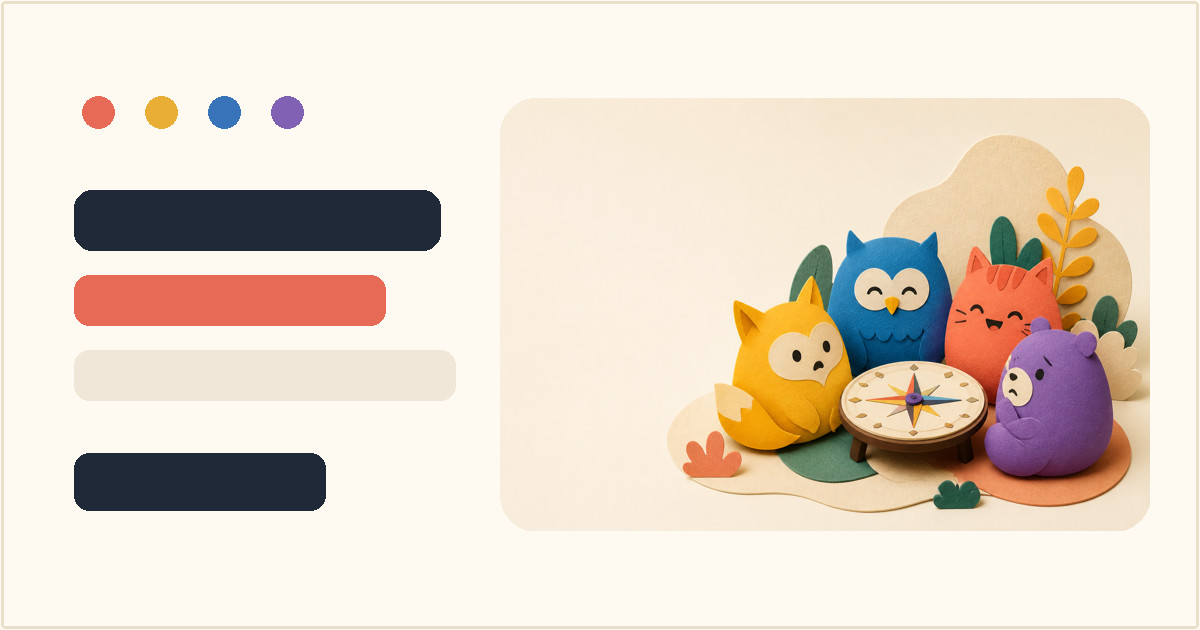
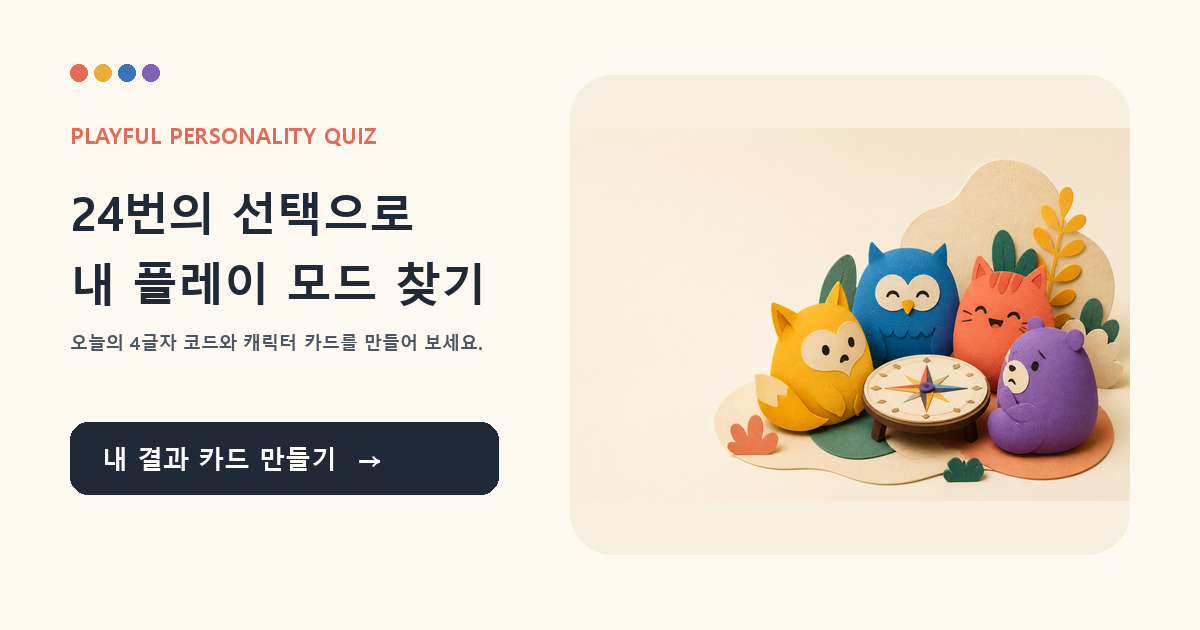
feat: share result cards as images

diff --git a/index.html b/index.html
@@ -24,7 +24,7 @@
 <body><div class="wrap"><header class="top"><div class="logo"><span class="mark" aria-hidden="true">✦</span>선택코드 플레이룸</div><span class="micro">24문항 · 4개 선호 축 · 16가지 오늘의 코드</span></header><main>
 <section id="landing" class="view active" aria-labelledby="hero-title"><div class="hero"><div class="hero-copy"><p class="eyebrow">PLAYFUL PERSONALITY QUIZ</p><h1 id="hero-title">24번의 선택으로<br>내 플레이 모드 찾기</h1><p class="lead">8문항으로 단정하지 않아요. 네 가지 선호 축을 각각 여섯 번씩 살펴보고, 선택의 결을 모아 오늘의 4글자 코드를 만들어요.</p><p class="scope">MBTI의 네 선호 축 구조를 참고한 비공식 놀이 콘텐츠입니다. 공식 검사·심리/의학적 진단·희귀도 순위가 아닙니다.</p><button id="start" class="cta" type="button">24문항 시작하기 →</button></div><div class="art-wrap"><img src="assets/personality-playroom-hero.png" alt="네 가지 동물 마스코트가 나침반 테이블을 둘러싼 종이 콜라주 그림"></div></div><div class="how" aria-label="퀴즈 안내"><div><b>01 · 24문항</b><span>같은 축을 한 번이 아닌 여섯 번 다른 장면에서</span></div><div><b>02 · 선택의 결</b><span>맞고 틀림 없이, 더 자주 끌린 방향을 확인</span></div><div><b>03 · 플레이 카드</b><span>코드·강점·관계 모드·오늘의 미션까지</span></div></div><div class="gallery"><h2>어떤 코드가 나올까?</h2><p>첫 화면에는 네 장만 미리 보여드려요. 전체 16가지는 필요할 때 열어보세요.</p><button id="typeToggle" class="gallery-toggle" type="button" aria-expanded="false">16가지 전체 코드 보기</button><div class="type-grid" id="typeGrid"></div></div></section>
 <section id="quiz" class="view"><div class="quiz-shell"><div class="progress-meta"><span id="counter">질문 1 / 24</span><span id="stage">에너지 방식</span></div><div class="progress" aria-hidden="true"><i id="bar"></i></div><span id="axisChip" class="axis-chip"></span><h2 id="question" class="q-title" aria-live="polite"></h2><div id="answers" class="answers"></div><div class="quiz-actions"><button id="back" class="back" type="button">← 이전 선택</button><span class="helper">처음 끌리는 쪽을 골라보세요</span></div></div></section>
-<section id="result" class="view" aria-labelledby="resultName"><div class="result"><span class="badge">TODAY'S PLAY CARD</span><div id="code" class="code"></div><img id="typeArt" class="type-art" src="assets/types/INTJ.png" alt="결과 캐릭터 일러스트"><h2 id="resultName"></h2><p id="description" class="description"></p><div id="cards" class="cards"></div><div id="axis" class="axis" aria-label="네 가지 선택 축 요약"></div><div class="starter"><b>오늘의 재미 미션</b><span id="mission"></span></div><p class="scope" style="margin:0 auto 17px;text-align:left">같은 축을 6개 장면에서 살폈지만, 이 결과는 고정 성격이나 능력·건강을 판단하지 않는 놀이용 코드입니다. 동점인 축은 가장 마지막 선택을 반영합니다.</p><div class="result-actions"><button id="share" class="secondary" type="button">결과 문구 복사하기</button><button id="restart" class="restart" type="button">처음부터 다시 하기</button></div><p id="toast" class="toast" role="status"></p></div><p class="foot">저장·추적·공유 없이 이 브라우저 안에서만 계산됩니다.</p></section>
+<section id="result" class="view" aria-labelledby="resultName"><div class="result"><span class="badge">TODAY'S PLAY CARD</span><div id="code" class="code"></div><img id="typeArt" class="type-art" src="assets/types/INTJ.png" alt="결과 캐릭터 일러스트"><h2 id="resultName"></h2><p id="description" class="description"></p><div id="cards" class="cards"></div><div id="axis" class="axis" aria-label="네 가지 선택 축 요약"></div><div class="starter"><b>오늘의 재미 미션</b><span id="mission"></span></div><p class="scope" style="margin:0 auto 17px;text-align:left">같은 축을 6개 장면에서 살폈지만, 이 결과는 고정 성격이나 능력·건강을 판단하지 않는 놀이용 코드입니다. 동점인 축은 가장 마지막 선택을 반영합니다.</p><div class="result-actions"><button id="share" class="secondary" type="button">내 결과 이미지 공유하기</button><button id="restart" class="restart" type="button">처음부터 다시 하기</button></div><p id="toast" class="toast" role="status"></p></div><p class="foot">저장·추적·공유 없이 이 브라우저 안에서만 계산됩니다.</p></section>
 </main></div>
 <script>
 (()=>{
@@ -46,8 +46,10 @@ function choose(key){answers[index]=key;if(index<questions.length-1){index++;ren
 function previous(){if(index>0){index--;answers.length=index;render()}}
 function score(){const out={I:0,E:0,S:0,N:0,T:0,F:0,J:0,P:0};answers.forEach(k=>out[k]++);return out}
 function winner(a,b,s,axis){if(s[a]===s[b]){for(let n=questions.length-1;n>=0;n--)if(questions[n].axis===axis)return answers[n]}return s[a]>s[b]?a:b}
-function renderResult(){const s=score();const code=winner('I','E',s,'EI')+winner('S','N',s,'SN')+winner('T','F',s,'TF')+winner('J','P',s,'JP');const t=types[code];$('#code').textContent=code;const art=$('#typeArt');art.src=`assets/types/${code}.png`;art.alt=`${code} ${t[0]} 캐릭터 일러스트`;$('#resultName').textContent=t[0];$('#description').textContent=t[1];$('#cards').replaceChildren(...[['PLAY STYLE',t[2]],['한 줄 플레이',t[3]],['선택 밀도',`${Object.values(info).map(d=>Math.max(s[d.a],s[d.b])+' / 6').join(' · ')}`]].map(([a,b])=>{const x=document.createElement('div');x.className='card';const h=document.createElement('b');h.textContent=a;const p=document.createElement('span');p.textContent=b;x.append(h,p);return x}));const ax=$('#axis');ax.replaceChildren(...Object.entries(info).map(([axis,d])=>{const a=s[d.a],b=s[d.b],w=winner(d.a,d.b,s,axis);const row=document.createElement('div');row.className='axis-row';const l=document.createElement('span');l.textContent=`${w} · ${d[w===d.a?'aLabel':'bLabel']}`;const meter=document.createElement('div');meter.className='meter';meter.style.setProperty('--point',`${(b/(a+b))*100}%`);const dot=document.createElement('i');meter.append(dot);const r=document.createElement('small');r.textContent=`${a}:${b}`;row.append(l,meter,r);return row}));$('#mission').textContent=`${t[2]}: ${t[3]}`;$('#share').onclick=()=>copyResult(code,t[0]);$('#toast').textContent='';show('result')}
-async function copyResult(code,name){const text=`나의 오늘의 선택코드는 ${code} · ${name}! (선택코드 플레이룸 24문항 놀이 결과)`;try{await navigator.clipboard.writeText(text);$('#toast').textContent='결과 문구를 복사했어요. 친구에게 보내볼까요?'}catch(e){$('#toast').textContent='이 브라우저에서는 자동 복사가 어려워요. 코드를 직접 골라 공유해 주세요.'}}
+function renderResult(){const s=score();const code=winner('I','E',s,'EI')+winner('S','N',s,'SN')+winner('T','F',s,'TF')+winner('J','P',s,'JP');const t=types[code];$('#code').textContent=code;const art=$('#typeArt');art.src=`assets/types/${code}.png`;art.alt=`${code} ${t[0]} 캐릭터 일러스트`;$('#resultName').textContent=t[0];$('#description').textContent=t[1];$('#cards').replaceChildren(...[['PLAY STYLE',t[2]],['한 줄 플레이',t[3]],['선택 밀도',`${Object.values(info).map(d=>Math.max(s[d.a],s[d.b])+' / 6').join(' · ')}`]].map(([a,b])=>{const x=document.createElement('div');x.className='card';const h=document.createElement('b');h.textContent=a;const p=document.createElement('span');p.textContent=b;x.append(h,p);return x}));const ax=$('#axis');ax.replaceChildren(...Object.entries(info).map(([axis,d])=>{const a=s[d.a],b=s[d.b],w=winner(d.a,d.b,s,axis);const row=document.createElement('div');row.className='axis-row';const l=document.createElement('span');l.textContent=`${w} · ${d[w===d.a?'aLabel':'bLabel']}`;const meter=document.createElement('div');meter.className='meter';meter.style.setProperty('--point',`${(b/(a+b))*100}%`);const dot=document.createElement('i');meter.append(dot);const r=document.createElement('small');r.textContent=`${a}:${b}`;row.append(l,meter,r);return row}));$('#mission').textContent=`${t[2]}: ${t[3]}`;$('#share').onclick=()=>shareResult(code,t);$('#toast').textContent='';show('result')}
+function roundRect(ctx,x,y,w,h,r){ctx.beginPath();ctx.roundRect(x,y,w,h,r);ctx.fill()}
+function loadImage(src){return new Promise((resolve,reject)=>{const img=new Image();img.onload=()=>resolve(img);img.onerror=reject;img.src=src})}
+async function shareResult(code,t){const toast=$('#toast');toast.textContent='내 결과 카드를 만들고 있어요…';const canvas=document.createElement('canvas');canvas.width=1200;canvas.height=630;const ctx=canvas.getContext('2d');ctx.fillStyle='#fffaf1';ctx.fillRect(0,0,1200,630);const glow=ctx.createRadialGradient(1020,70,15,900,260,680);glow.addColorStop(0,'#f7c55b');glow.addColorStop(.45,'#f9e6bd');glow.addColorStop(1,'#fffaf100');ctx.fillStyle=glow;ctx.fillRect(0,0,1200,630);ctx.fillStyle='#e66a55';roundRect(ctx,70,74,13,13,7);ctx.fillStyle='#e9ae36';roundRect(ctx,92,74,13,13,7);ctx.fillStyle='#3974ba';roundRect(ctx,114,74,13,13,7);ctx.fillStyle='#8061b4';roundRect(ctx,136,74,13,13,7);ctx.fillStyle='#e66a55';ctx.font='800 21px Pretendard, Arial, sans-serif';ctx.fillText('24개의 순간이 만든 오늘의 플레이 모드',70,130);ctx.fillStyle='#1f2937';ctx.font='900 100px Pretendard, Arial, sans-serif';ctx.fillText(code,67,248);ctx.font='900 46px Pretendard, Arial, sans-serif';ctx.fillText(t[0],70,312);ctx.fillStyle='#4b5563';ctx.font='600 25px Pretendard, Arial, sans-serif';const line=t[3].length>25?t[3].slice(0,25)+'…':t[3];ctx.fillText(`“${line}”`,70,370);ctx.fillStyle='#1f2937';roundRect(ctx,70,438,460,86,21);ctx.fillStyle='#fffdfa';ctx.font='800 27px Pretendard, Arial, sans-serif';ctx.fillText(`오늘의 미션 · ${t[2]}`,101,491);ctx.fillStyle='#f7efdf';roundRect(ctx,658,55,470,520,38);try{const art=await loadImage(`assets/types/${code}.png`);const ratio=Math.min(430/art.width,430/art.height);const w=art.width*ratio,h=art.height*ratio;ctx.drawImage(art,678+(430-w)/2,96+(430-h)/2,w,h)}catch(e){ctx.fillStyle='#8061b4';ctx.font='900 120px sans-serif';ctx.fillText('✦',825,340)}ctx.fillStyle='#6b7280';ctx.font='700 18px Pretendard, Arial, sans-serif';ctx.fillText('선택코드 플레이룸 · 비공식 놀이 퀴즈',70,579);const blob=await new Promise(resolve=>canvas.toBlob(resolve,'image/png'));if(!blob){toast.textContent='이미지 생성에 실패했어요. 다시 시도해 주세요.';return}const file=new File([blob],`my-play-card-${code}.png`,{type:'image/png'});const text=`나의 오늘의 선택코드는 ${code} · ${t[0]}! ${t[3]}\n선택코드 플레이룸 24문항 놀이 결과`;try{if(navigator.canShare&&navigator.canShare({files:[file]})){await navigator.share({title:`${code} · ${t[0]}`,text,files:[file]});toast.textContent='내 결과 카드와 문구를 공유했어요.';return}}catch(e){if(e.name==='AbortError'){toast.textContent='공유를 취소했어요.';return}}try{await navigator.clipboard.writeText(text)}catch(e){}const a=document.createElement('a');a.href=URL.createObjectURL(blob);a.download=file.name;a.click();setTimeout(()=>URL.revokeObjectURL(a.href),1000);toast.textContent='공유용 결과 이미지를 내려받고 문구도 복사했어요.'}
 function restart(){index=0;answers=[];show('landing')}
 $('#start').addEventListener('click',()=>{index=0;answers=[];show('quiz');render()});$('#back').addEventListener('click',previous);$('#restart').addEventListener('click',restart);
 const grid=$('#typeGrid'),toggle=$('#typeToggle');let allTypes=false;function renderTypes(){grid.replaceChildren(...Object.entries(types).slice(0,allTypes?16:4).map(([c,v])=>{const x=document.createElement('div');x.className='type';const b=document.createElement('b');b.textContent=c;const s=document.createElement('span');s.textContent=v[0];x.append(b,s);return x}));toggle.textContent=allTypes?'16가지 접기':'16가지 전체 코드 보기';toggle.setAttribute('aria-expanded',String(allTypes))}toggle.addEventListener('click',()=>{allTypes=!allTypes;renderTypes()});renderTypes();

diff --git a/README.md b/README.md
@@ -1,15 +1,16 @@
 # 선택코드 플레이룸
 
-8개의 상황 선택으로 만드는 **오늘의 4글자 선택 코드**. MBTI를 떠올리게 하는 4개 축(E/I, S/N, T/F, J/P)을 사용하지만, 공식 MBTI 검사·심리 진단·의학적 평가가 아닌 **재미를 위한 비공식 심리 퀴즈**입니다.
+24개의 상황 선택으로 만드는 **오늘의 4글자 선택 코드**. MBTI를 떠올리게 하는 4개 축(E/I, S/N, T/F, J/P)을 사용하지만, 공식 MBTI 검사·심리 진단·의학적 평가가 아닌 **재미를 위한 비공식 심리 퀴즈**입니다.
 
 ## Run
 `index.html`을 최신 브라우저로 여세요. 의존성, 로그인, 추적, 서버가 없습니다.
 
 ## Flow
-1. 8개 일상 상황 선택
-2. 에너지·관찰·결정·생활의 4개 축을 로컬 계산
+1. 24개 일상 상황 선택
+2. 4개 축을 각 6개 장면에서 로컬 계산
 3. 16개 중 하나의 오늘의 선택 코드와 캐릭터 이름·작은 재미 미션 표시
-4. 재시작 시 선택값을 모두 초기화
+4. 결과별 캐릭터를 담은 공유 이미지 생성·공유(미지원 브라우저는 PNG 다운로드 + 문구 복사)
+5. 재시작 시 선택값을 모두 초기화
 
 ## Originality / safety
 - 원래 X 레퍼런스에서는 짧은 퀴즈 퍼널과 히어로 중심 구도만 연구했습니다.
@@ -20,5 +21,7 @@
 ## Files
 - `index.html` — 전체 앱
 - `assets/personality-playroom-hero.png` — 오리지널 4마스코트 히어로
+- `assets/og-cover.png` — 공유 미리보기용 1200×630 커버
+- `assets/types/*.png` — 결과별 오리지널 캐릭터 이미지
 - `docs/design/rhythm-compass-design.md` — UI/UX 방향 및 검증 기준
 - `manifest.json` — 파일 해시 및 원본 메타데이터
